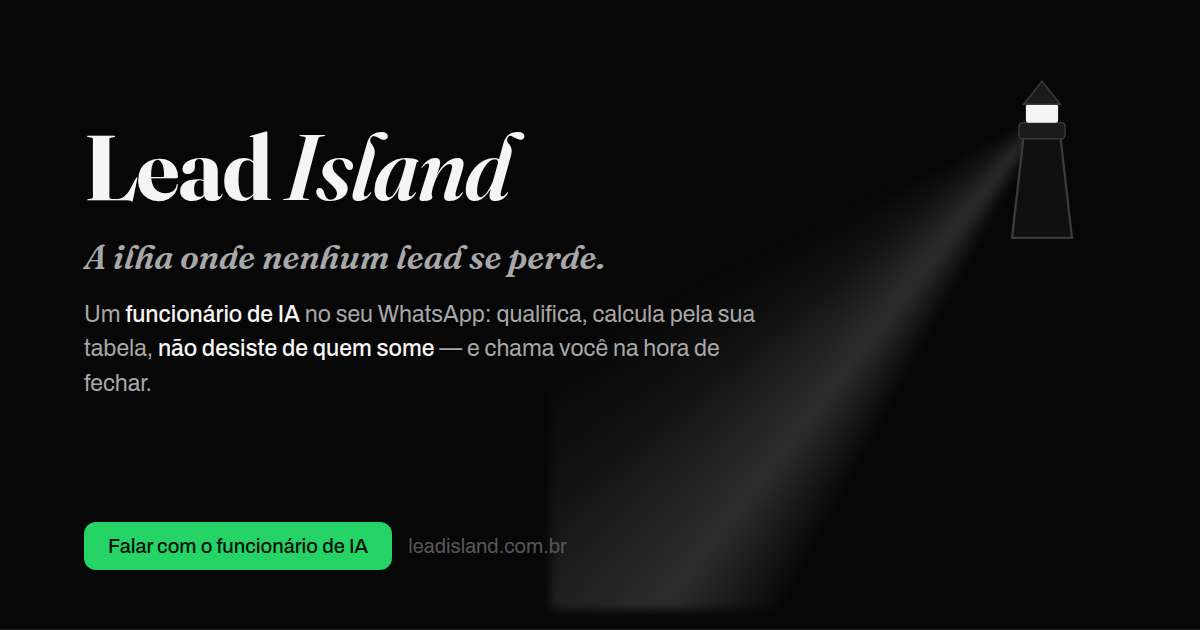
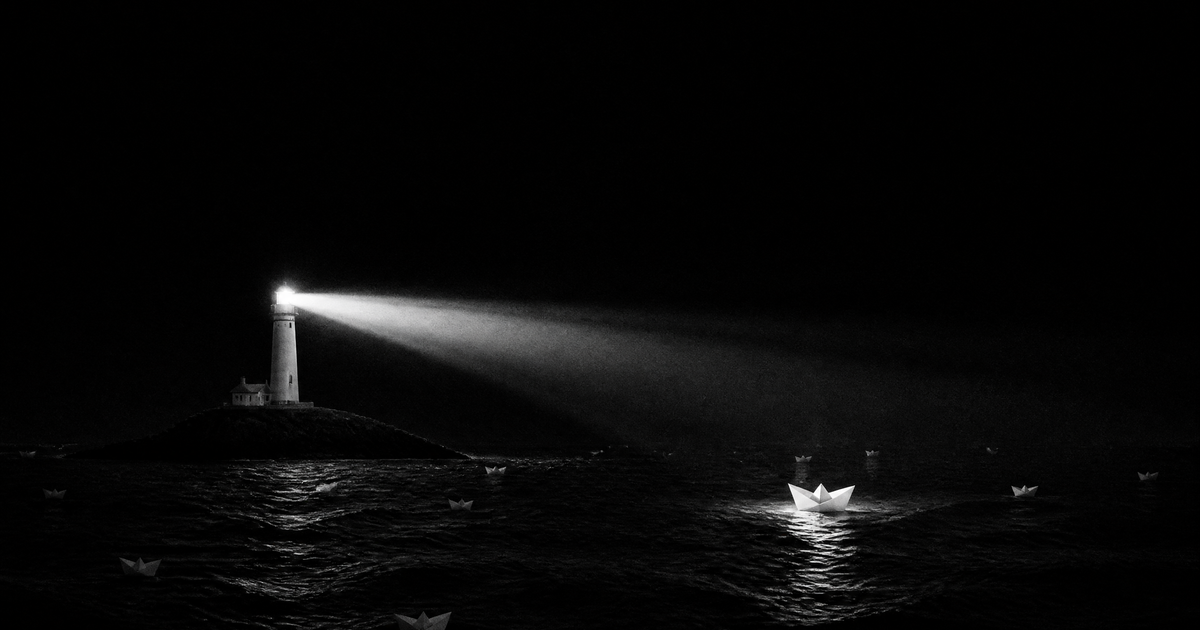
Site cinematográfico: fotografia real gerada por IA — herói do farol, flotilha no manifesto, loja às 23h no fechamento

diff --git a/index.html b/index.html
@@ -115,22 +115,17 @@ nav .btn:hover{box-shadow:0 6px 20px rgba(245,245,245,.14)}
 @media(max-width:720px){.nav-links a:not(.btn){display:none}}
 @media(max-width:400px){.btn.small{font-size:var(--fs-xs);padding:var(--s2) var(--s3)}}
 
-/* ---- hero ---- */
+/* ---- hero (fotografia real, Ken Burns) ---- */
 header{position:relative;min-height:min(100svh,940px);display:flex;align-items:center;overflow:hidden;border-bottom:1px solid var(--hair)}
-#ocean{position:absolute;left:0;right:0;bottom:0;width:100%;height:46%;z-index:var(--z-bg);pointer-events:none;opacity:0;transition:opacity 2s ease;
-  -webkit-mask-image:linear-gradient(to bottom,transparent,#000 34%);mask-image:linear-gradient(to bottom,transparent,#000 34%)}
-#ocean.on{opacity:.6}
-.beacon{position:absolute;top:190px;right:16%;z-index:var(--z-beacon);pointer-events:none}
-.beam-wedge{position:absolute;left:-550px;top:-550px;width:1100px;height:1100px;
-  background:conic-gradient(from 0deg,transparent 0deg,rgba(245,245,245,.13) 8deg,rgba(245,245,245,.04) 20deg,transparent 30deg);
-  animation:sweep 9s linear infinite;filter:blur(5px)}
-@keyframes sweep{from{transform:rotate(0deg)}to{transform:rotate(360deg)}}
-.lh{position:absolute;left:0;top:0;transform:translate(-50%,-35px)}
-@media(max-width:900px){
-  .beacon{right:15%;top:150px}
-  .beam-wedge{left:-350px;top:-350px;width:700px;height:700px}
-  .lh{transform:translate(-50%,-26px) scale(.72);transform-origin:50% 26px}
-}
+.hero-photo{position:absolute;inset:0;width:100%;height:100%;object-fit:cover;object-position:62% 40%;z-index:0;
+  animation:kenburns 26s ease-in-out infinite alternate;transform-origin:62% 42%}
+@keyframes kenburns{from{transform:scale(1)}to{transform:scale(1.08)}}
+.hero-veil{position:absolute;inset:0;z-index:1;pointer-events:none;
+  background:linear-gradient(90deg,rgba(7,7,7,.9) 0%,rgba(7,7,7,.62) 42%,rgba(7,7,7,.12) 72%,rgba(7,7,7,.3) 100%),
+             linear-gradient(to top,var(--ink) 0%,transparent 28%),
+             linear-gradient(to bottom,rgba(7,7,7,.55) 0%,transparent 18%)}
+.bg-photo{position:absolute;inset:0;width:100%;height:100%;object-fit:cover;z-index:0}
+.bg-veil{position:absolute;inset:0;z-index:1;pointer-events:none}
 .hero-in{padding-top:150px;padding-bottom:120px;max-width:900px}
 h1{font-family:var(--serif);font-weight:700;font-size:var(--fs-h1);line-height:1.03;letter-spacing:-1px;text-wrap:balance}
 h1 em{font-style:italic;font-weight:600;display:block;margin-top:var(--s3);color:var(--gray)}
@@ -155,9 +150,11 @@ h2{font-family:var(--serif);font-weight:600;font-size:var(--fs-h2);line-height:v
 .mq{display:inline-block;white-space:nowrap;animation:mq 32s linear infinite;font-family:var(--mono);font-size:var(--fs-xs);letter-spacing:2.2px;color:var(--gray);text-transform:uppercase}
 @keyframes mq{from{transform:translateX(0)}to{transform:translateX(-50%)}}
 
-/* ---- manifesto ---- */
-.statement{padding:var(--s10) var(--s5);text-align:center;border-bottom:1px solid var(--hair)}
-.statement p{font-family:var(--serif);font-style:italic;font-weight:600;font-size:var(--fs-giant);line-height:1.04;letter-spacing:-2px;text-wrap:balance}
+/* ---- manifesto (sobre a flotilha real) ---- */
+.statement{position:relative;overflow:hidden;padding:calc(var(--s10) + var(--s7)) var(--s5);text-align:center;border-bottom:1px solid var(--hair)}
+.statement .bg-photo{opacity:.55}
+.statement .bg-veil{background:radial-gradient(85% 90% at 50% 50%,rgba(7,7,7,.2) 0%,rgba(7,7,7,.88) 100%)}
+.statement p{position:relative;z-index:2;font-family:var(--serif);font-style:italic;font-weight:600;font-size:var(--fs-giant);line-height:1.04;letter-spacing:-2px;text-wrap:balance}
 
 /* ---- frota ---- */
 .fleet{margin-top:var(--s7);display:grid;grid-template-columns:minmax(0,1fr) minmax(260px,380px);gap:var(--s7);align-items:center}
@@ -316,8 +313,11 @@ h2{font-family:var(--serif);font-weight:600;font-size:var(--fs-h2);line-height:v
 .faq details p{padding:0 0 var(--s4);color:var(--gray);font-size:var(--fs-md);max-width:640px}
 .faq a{color:var(--paper)}
 
-/* ---- final ---- */
-.final{text-align:center;padding:var(--s10) 0;border-bottom:none}
+/* ---- final (a loja às 23h) ---- */
+.final{position:relative;overflow:hidden;text-align:center;padding:calc(var(--s10) + var(--s6)) 0;border-bottom:none}
+.final .bg-photo{opacity:.5}
+.final .bg-veil{background:linear-gradient(to bottom,var(--ink) 0%,rgba(7,7,7,.45) 40%,rgba(7,7,7,.75) 100%)}
+.final .wrap{z-index:2}
 .final h2{max-width:none;font-size:clamp(32px,5vw,54px)}
 .final h2 em{font-style:italic;color:var(--gray)}
 .final .btn{margin-top:var(--s6);font-size:var(--fs-body);padding:var(--s4) var(--s6)}
@@ -339,6 +339,7 @@ footer{border-top:1px solid var(--hair);padding:var(--s6) 0}
   .beam-wedge{animation:none;opacity:.4}
   .rise{animation:none;opacity:1;transform:none}
   .flotilla i{transition:none}
+  .hero-photo{animation:none}
   #torch{display:none}
   .route .stop{opacity:1;transform:none;transition:none}
   .route::before{transform:none;transition:none}
@@ -375,17 +376,8 @@ footer{border-top:1px solid var(--hair);padding:var(--s6) 0}
 </nav>
 
 <header>
-  <canvas id="ocean" aria-hidden="true"></canvas>
-  <div class="beacon" aria-hidden="true">
-    <div class="beam-wedge"></div>
-    <svg class="lh" width="120" height="150" viewBox="0 0 60 76" fill="none">
-      <path d="M22 28h16l5 44H17l5-44Z" fill="#101010" stroke="#3B3B3B"/>
-      <rect x="20" y="22" width="20" height="7" rx="1.5" fill="#1B1B1B" stroke="#3B3B3B" stroke-width=".6"/>
-      <rect x="23" y="14" width="14" height="8" rx="1" fill="#F5F5F5"/>
-      <path d="M30 4l8 10H22l8-10Z" fill="#1B1B1B" stroke="#3B3B3B" stroke-width=".6"/>
-      <circle cx="30" cy="18" r="2.4" fill="#070707"/>
-    </svg>
-  </div>
+  <img class="hero-photo" src="assets/farol.jpg" alt="Farol noturno varrendo o mar escuro com o facho branco, revelando barquinhos de papel à deriva" fetchpriority="high">
+  <div class="hero-veil" aria-hidden="true"></div>
   <div class="wrap hero-in">
     <h1 class="rise">Todo dia, leads afundam no seu WhatsApp. <em>Nesta ilha, nenhum se perde.</em></h1>
     <p class="hero-sub rise">A Lead Island coloca um <b>funcionário de IA</b> no seu número: ele qualifica cada lead na hora, calcula pela <b>sua</b> tabela sem inventar nada, <b>não desiste de quem some</b> — e chama você na hora certa de fechar.</p>
@@ -513,6 +505,8 @@ footer{border-top:1px solid var(--hair);padding:var(--s6) 0}
 </section>
 
 <section class="statement" aria-label="Nenhum lead se perde">
+  <img class="bg-photo" src="assets/flotilha.jpg" alt="" loading="lazy" aria-hidden="true">
+  <div class="bg-veil" aria-hidden="true"></div>
   <p>Nenhum lead<br>se perde.</p>
 </section>
 
@@ -661,6 +655,8 @@ footer{border-top:1px solid var(--hair);padding:var(--s6) 0}
 </section>
 
 <section class="final">
+  <img class="bg-photo" src="assets/loja.jpg" alt="" loading="lazy" aria-hidden="true">
+  <div class="bg-veil" aria-hidden="true"></div>
   <div class="wrap">
     <h2>Traga seus leads <em>pra terra firme.</em></h2>
     <div>
@@ -742,60 +738,6 @@ const fleetIO = new IntersectionObserver((entries) => {
   });
 }, { threshold: 0.4 });
 fleetIO.observe(flotilla);
-
-(async () => {
-  const cv = document.getElementById('ocean');
-  if (calm || !matchMedia('(min-width:900px)').matches || !cv) { cv && cv.remove(); return; }
-  try {
-    const THREE = await import('https://unpkg.com/three@0.160.0/build/three.module.js');
-    const renderer = new THREE.WebGLRenderer({ canvas: cv, alpha: true, antialias: true });
-    renderer.setPixelRatio(Math.min(devicePixelRatio, 1.5));
-    const scene = new THREE.Scene();
-    scene.fog = new THREE.Fog(0x070707, 12, 95);
-    const cam = new THREE.PerspectiveCamera(55, 2, 0.1, 200);
-    cam.position.set(0, 6, 26);
-    cam.lookAt(0, 0, -40);
-    const geo = new THREE.PlaneGeometry(260, 150, 110, 60);
-    const mat = new THREE.MeshBasicMaterial({ color: 0x3B3B3B, wireframe: true, transparent: true, opacity: .5 });
-    const sea = new THREE.Mesh(geo, mat);
-    sea.rotation.x = -Math.PI / 2;
-    scene.add(sea);
-    const pos = geo.attributes.position;
-    const base = pos.array.slice();
-    const setSize = () => {
-      const w = cv.clientWidth, h = cv.clientHeight;
-      renderer.setSize(w, h, false);
-      cam.aspect = w / h;
-      cam.updateProjectionMatrix();
-    };
-    setSize();
-    addEventListener('resize', setSize, { passive: true });
-    let visible = false, running = false, t = 0, started = false;
-    const frame = () => {
-      if (!running) return;
-      t += 0.012;
-      for (let i = 0; i < pos.count; i++) {
-        const x = base[i * 3], y = base[i * 3 + 1];
-        pos.array[i * 3 + 2] =
-          Math.sin(x * 0.14 + t) * Math.cos(y * 0.11 + t * 0.8) * 1.6 +
-          Math.sin(y * 0.05 + t * 0.5) * 0.8;
-      }
-      pos.needsUpdate = true;
-      renderer.render(scene, cam);
-      if (!started) { started = true; cv.classList.add('on'); }
-      requestAnimationFrame(frame);
-    };
-    const sync = () => {
-      const should = visible && !document.hidden;
-      if (should && !running) { running = true; frame(); }
-      else if (!should) { running = false; }
-    };
-    new IntersectionObserver(([e]) => { visible = e.isIntersecting; sync(); }).observe(cv);
-    document.addEventListener('visibilitychange', sync);
-  } catch (e) {
-    cv.remove();
-  }
-})();
 
 addEventListener('scroll', () => {
   const d = document.getElementById('depth');
